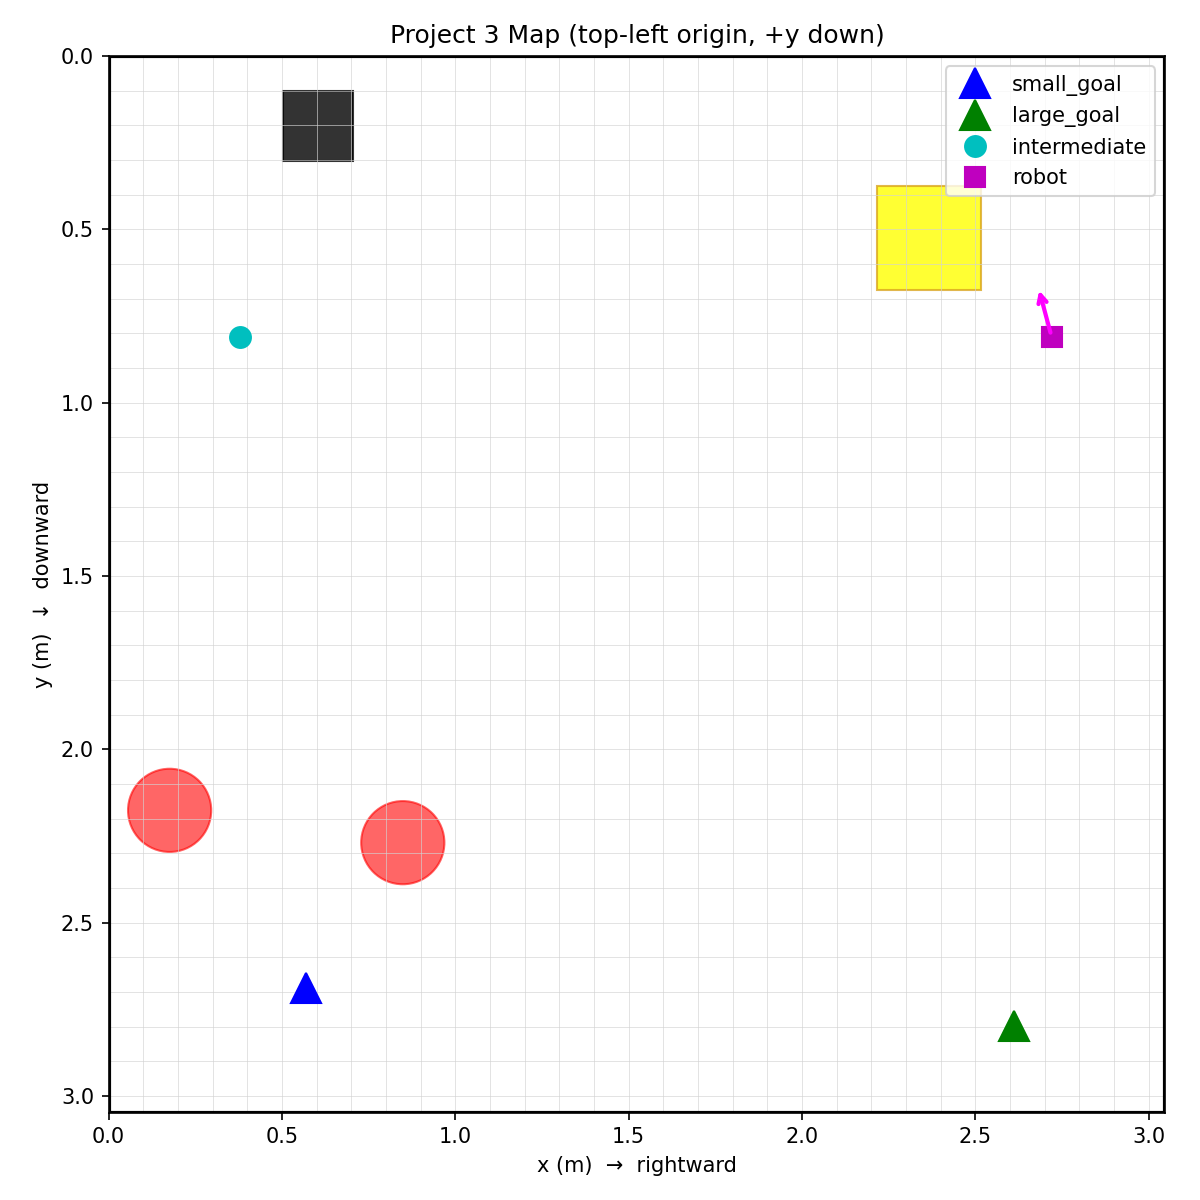
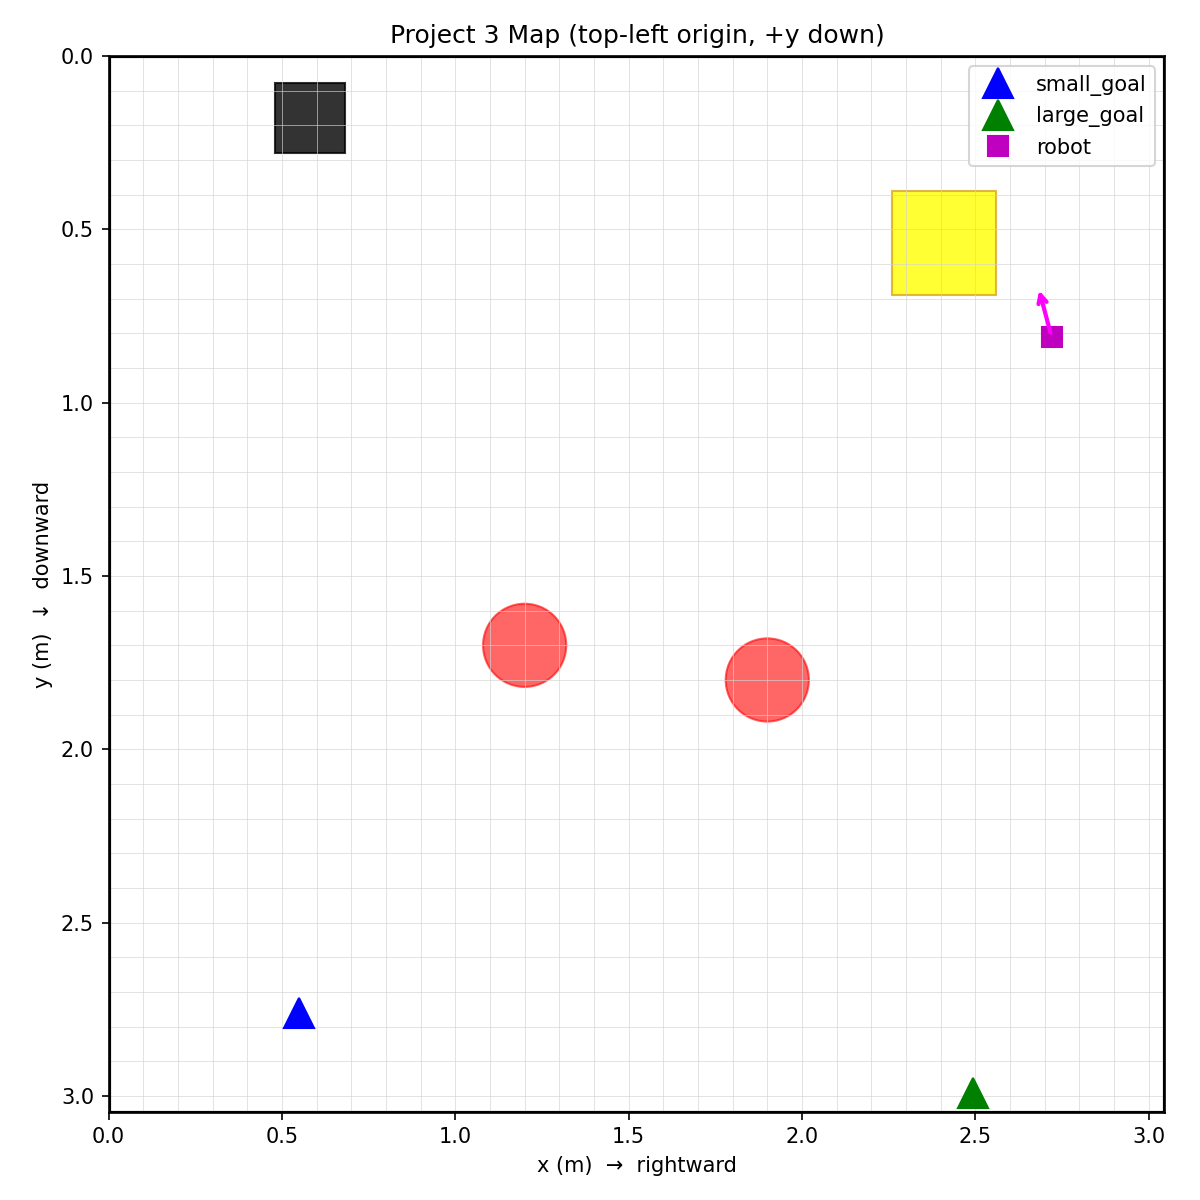
mostly working map

diff --git a/Project 3/project_3_updated.py b/Project 3/project_3_updated.py
@@ -109,6 +109,13 @@ LEFT_SCAN_STEP_M = 0.18
 OBSTACLE_MERGE_RADIUS_M = 0.30
 OBSTACLE_PATH_CLEARANCE_M = 0.38
 OBSTACLE_DETOUR_MARGIN_M = 0.28
+OBSTACLE_FALLBACK_RADIUS_M = 0.70
+OBSTACLE_FALLBACK_POSITIONS: Tuple[Tuple[float, float], ...] = (
+    (1.2, 1.7),
+    (1.9, 1.8),
+)
+DOCK_FALLBACK_RADIUS_M = 0.70
+DOCK_FALLBACK_POSITION: Tuple[float, float] = (2.46, 0.48)
 
 # Navigation stop distances.
 LANDMARK_STOP_DIST_M = 0.55
@@ -156,6 +163,9 @@ OBJECT_HEIGHTS_M = {
     CLASS_SMALL_BRICK: 0.10,
     CLASS_LARGE_BRICK: 0.19,
 }
+
+
+ACTIVE_WORLD_MAP: Optional["WorldMap"] = None
 
 
 # ---------------------------------------------------------------------------
@@ -206,6 +216,8 @@ class WorldMap:
     intermediate: Optional[Landmark] = None
     dropoff_tag_ref: Optional[TagReference] = None
     obstacles: List[Landmark] = field(default_factory=list)
+    fallback_notes: List[str] = field(default_factory=list)
+    path_points: List[Tuple[float, float]] = field(default_factory=list)
 
     def goal_for_kind(self, kind: str) -> Optional[Landmark]:
         if kind == "small_goal":
@@ -253,6 +265,30 @@ class WorldMap:
         count += 1 if self.large_goal is not None else 0
         return count
 
+    def record_fallback(
+        self,
+        label: str,
+        detected_x: Optional[float],
+        detected_y: Optional[float],
+        final_x: float,
+        final_y: float,
+        reason: str,
+    ) -> None:
+        if detected_x is None or detected_y is None:
+            detected = "not detected"
+        else:
+            detected = f"detected=({detected_x:.2f}, {detected_y:.2f})"
+        final = f"used=({final_x:.2f}, {final_y:.2f})"
+        self.fallback_notes.append(f"{label}: {detected} -> {final} because {reason}")
+
+    def record_path_point(self, x: float, y: float) -> None:
+        point = (float(x), float(y))
+        if self.path_points:
+            last_x, last_y = self.path_points[-1]
+            if math.hypot(point[0] - last_x, point[1] - last_y) < 1e-6:
+                return
+        self.path_points.append(point)
+
     def summary(self) -> str:
         def fmt(lm: Optional[Landmark]) -> str:
             return "NOT FOUND" if lm is None else f"({lm.x:.2f}, {lm.y:.2f})"
@@ -267,6 +303,9 @@ class WorldMap:
         ]
         for idx, obstacle in enumerate(self.obstacles, start=1):
             lines.append(f"    obstacle_{idx}: ({obstacle.x:.2f}, {obstacle.y:.2f})")
+        if self.fallback_notes:
+            lines.append("  fallback notes:")
+            lines.extend([f"    {note}" for note in self.fallback_notes])
         return "\n".join(lines)
 
 
@@ -417,6 +456,41 @@ def clamp_to_workspace(x: float, y: float) -> Tuple[float, float]:
         min(max(0.0, x), WORKSPACE_W_M),
         min(max(0.0, y), WORKSPACE_H_M),
     )
+
+
+def record_active_path_point(pose: Pose2D) -> None:
+    if ACTIVE_WORLD_MAP is not None:
+        ACTIVE_WORLD_MAP.record_path_point(pose.x, pose.y)
+
+
+def point_in_workspace(x: float, y: float) -> bool:
+    return 0.0 <= x <= WORKSPACE_W_M and 0.0 <= y <= WORKSPACE_H_M
+
+
+def obstacle_fallback_for_index(index: int) -> Tuple[float, float]:
+    if not OBSTACLE_FALLBACK_POSITIONS:
+        raise RuntimeError("No obstacle fallback positions configured.")
+    if index < len(OBSTACLE_FALLBACK_POSITIONS):
+        return OBSTACLE_FALLBACK_POSITIONS[index]
+    return OBSTACLE_FALLBACK_POSITIONS[-1]
+
+
+def validate_or_fallback_obstacle(x: float, y: float, index: int) -> Tuple[float, float, Optional[str]]:
+    fallback_x, fallback_y = obstacle_fallback_for_index(index)
+    if not point_in_workspace(x, y):
+        return fallback_x, fallback_y, "outside workspace"
+    if math.hypot(x - fallback_x, y - fallback_y) > OBSTACLE_FALLBACK_RADIUS_M:
+        return fallback_x, fallback_y, f"outside {OBSTACLE_FALLBACK_RADIUS_M:.2f} m fallback radius"
+    return x, y, None
+
+
+def validate_or_fallback_dock(x: float, y: float) -> Tuple[float, float, Optional[str]]:
+    fallback_x, fallback_y = DOCK_FALLBACK_POSITION
+    if not point_in_workspace(x, y):
+        return fallback_x, fallback_y, "outside workspace"
+    if math.hypot(x - fallback_x, y - fallback_y) > DOCK_FALLBACK_RADIUS_M:
+        return fallback_x, fallback_y, f"outside {DOCK_FALLBACK_RADIUS_M:.2f} m fallback radius"
+    return x, y, None
 
 
 # ---------------------------------------------------------------------------
@@ -704,6 +778,7 @@ def move_robot(
     pose.x += world_dx
     pose.y += world_dy
     pose.yaw = wrap_to_pi(pose.yaw - math.radians(z_deg))
+    record_active_path_point(pose)
     print(
         f"[Pose] x={pose.x:.3f} y={pose.y:.3f} "
         f"yaw={math.degrees(pose.yaw):.1f}° "
@@ -728,6 +803,7 @@ def integrate_drive_speed(
     pose.x += world_dx
     pose.y += world_dy
     pose.yaw = wrap_to_pi(pose.yaw - math.radians(wz_deg_s * dt_s))
+    record_active_path_point(pose)
 
 
 def turn_to_yaw(ep_chassis, pose: Pose2D, target_yaw_rad: float) -> None:
@@ -1183,8 +1259,6 @@ def try_refine_recharge_from_tag(
     world_map: WorldMap,
     timeout_s: float = 5.0,
 ) -> bool:
-    if world_map.recharge is not None and world_map.recharge.tag_id is not None:
-        return True
     deadline = time.time() + timeout_s
     while time.time() < deadline:
         frame = read_frame(ep_camera, timeout=0.5)
@@ -1198,12 +1272,14 @@ def try_refine_recharge_from_tag(
             continue
 
         debug_log_tag_mapping(tag, pose, "recharge-tag-refine")
-        landmark = landmark_from_tag_detection(tag, "recharge", pose)
-        world_map.recharge = landmark
-        print(f"[Recharge] refined → ({landmark.x:.3f},{landmark.y:.3f}) tag={landmark.tag_id}")
+        print(
+            f"[Recharge] recharge tag acquired for approach at "
+            f"({float(tag.center[0]):.1f}px, {float(tag.center[1]):.1f}px); "
+            "keeping the original mapped recharge position."
+        )
         return True
 
-    print("[Recharge] recharge tag not found; keeping coarse position.")
+    print("[Recharge] recharge tag not found; keeping original mapped recharge position.")
     return False
 
 
@@ -1229,6 +1305,16 @@ def wait_for_goal_tag(
 # ---------------------------------------------------------------------------
 # Mapping functions
 # ---------------------------------------------------------------------------
+
+def is_unmapped_sweep_tag(tag_id: int, world_map: WorldMap, required_obstacles: int) -> bool:
+    goal_kind = goal_kind_from_tag(tag_id)
+    if goal_kind is not None:
+        return world_map.goal_for_kind(goal_kind) is None
+    if not is_obstacle_tag(tag_id):
+        return False
+    if len(world_map.obstacles) >= required_obstacles:
+        return False
+    return all(obstacle.tag_id != tag_id for obstacle in world_map.obstacles if obstacle.tag_id is not None)
 
 def map_goal_from_view(
     ep_camera,
@@ -1307,6 +1393,13 @@ def scan_left_and_map_world(
         frame = read_frame(ep_camera, timeout=0.5)
         if frame is not None:
             tags, detections = detect_tags_and_objects(frame, yolo_model, tag_detector)
+            tags = sorted(
+                tags,
+                key=lambda tag: (
+                    0 if is_unmapped_sweep_tag(int(tag.tag_id), world_map, required_obstacles) else 1,
+                    -float(tag.center[0]),
+                ),
+            )
 
             for tag in tags:
                 tag_id = int(tag.tag_id)
@@ -1336,7 +1429,23 @@ def scan_left_and_map_world(
                     continue
                 debug_log_tag_mapping(tag, pose, "obstacle-tag")
                 lm = landmark_from_tag_detection(tag, "obstacle", pose)
-                obs = world_map.add_or_update_obstacle(lm.x, lm.y, tag_id=tag_id)
+                obstacle_index = len(world_map.obstacles)
+                obs_x, obs_y, fallback_reason = validate_or_fallback_obstacle(lm.x, lm.y, obstacle_index)
+                obs = world_map.add_or_update_obstacle(obs_x, obs_y, tag_id=tag_id)
+                if fallback_reason is not None:
+                    world_map.record_fallback(
+                        f"obstacle_{obstacle_index + 1}",
+                        lm.x,
+                        lm.y,
+                        obs.x,
+                        obs.y,
+                        fallback_reason,
+                    )
+                    print(
+                        f"[Map] obstacle tag {tag_id} mapped to fallback "
+                        f"({obs.x:.3f},{obs.y:.3f}) because detection was {fallback_reason}"
+                    )
+                    continue
                 print(f"[Map] obstacle tag {tag_id} at ({obs.x:.3f},{obs.y:.3f})")
 
             if (
@@ -1352,6 +1461,27 @@ def scan_left_and_map_world(
         # direction when facing down (yaw=π/2).
         move_robot(ep_chassis, pose, y_m=-LEFT_SCAN_STEP_M)
         total_left_m += LEFT_SCAN_STEP_M
+
+    while len(world_map.obstacles) < required_obstacles:
+        obstacle_index = len(world_map.obstacles)
+        fallback_x, fallback_y = obstacle_fallback_for_index(obstacle_index)
+        obs = world_map.add_or_update_obstacle(fallback_x, fallback_y)
+        world_map.record_fallback(
+            f"obstacle_{obstacle_index + 1}",
+            None,
+            None,
+            obs.x,
+            obs.y,
+            "the obstacle was not found during the sweep",
+        )
+        print(
+            f"[Map] obstacle {obstacle_index + 1} missing after sweep; "
+            f"using fallback ({obs.x:.3f},{obs.y:.3f})"
+        )
+
+    if world_map.small_goal is not None and world_map.large_goal is not None:
+        print("[Map] left sweep complete: both goals and required obstacles mapped")
+        return
 
     raise RuntimeError("Could not map both goals and the required obstacles while translating left.")
 
@@ -1379,14 +1509,40 @@ def map_loading_dock(
                 if points:
                     dock_x = float(np.mean([p[0] for p in points]))
                     dock_y = float(np.mean([p[1] for p in points]))
-                    world_map.dock = Landmark(kind="dock", x=dock_x, y=dock_y)
-                    print(f"[Map] dock at ({dock_x:.3f},{dock_y:.3f}) from {len(points)} towers")
+                    final_x, final_y, fallback_reason = validate_or_fallback_dock(dock_x, dock_y)
+                    world_map.dock = Landmark(kind="dock", x=final_x, y=final_y)
+                    if fallback_reason is not None:
+                        world_map.record_fallback(
+                            "dock",
+                            dock_x,
+                            dock_y,
+                            final_x,
+                            final_y,
+                            fallback_reason,
+                        )
+                        print(
+                            f"[Map] dock detected at ({dock_x:.3f},{dock_y:.3f}) "
+                            f"but using fallback ({final_x:.3f},{final_y:.3f}) because detection was {fallback_reason}"
+                        )
+                    else:
+                        print(f"[Map] dock at ({dock_x:.3f},{dock_y:.3f}) from {len(points)} towers")
                     return world_map.dock
 
         # Rotate CCW (yaw decreases) to sweep: chassis z positive.
         move_robot(ep_chassis, pose, z_deg=DOCK_SEARCH_STEP_DEG)
 
-    raise RuntimeError("Could not locate the loading dock tower clump.")
+    fallback_x, fallback_y = DOCK_FALLBACK_POSITION
+    world_map.dock = Landmark(kind="dock", x=fallback_x, y=fallback_y)
+    world_map.record_fallback(
+        "dock",
+        None,
+        None,
+        fallback_x,
+        fallback_y,
+        "the loading dock was not found during the dock scan",
+    )
+    print(f"[Map] dock missing after scan; using fallback ({fallback_x:.3f},{fallback_y:.3f})")
+    return world_map.dock
 
 
 # ---------------------------------------------------------------------------
@@ -1537,6 +1693,7 @@ def recharge_robot(
     pose: Pose2D,
     world_map: WorldMap,
     battery: BatteryManager,
+    leave_after_recharge: bool = True,
 ) -> None:
     if world_map.recharge is None:
         raise RuntimeError("Recharge requested before recharge was mapped.")
@@ -1562,7 +1719,8 @@ def recharge_robot(
     time.sleep(5.0)
     battery.recharge()
     print(f"[Recharge] Battery now {battery.level:.0f}%")
-    go_to_intermediate_waypoint(ep_camera, ep_chassis, yolo_model, tag_detector, pose, world_map)
+    if leave_after_recharge:
+        go_to_intermediate_waypoint(ep_camera, ep_chassis, yolo_model, tag_detector, pose, world_map)
 
 
 # ---------------------------------------------------------------------------
@@ -1693,6 +1851,12 @@ def visualize_map(world_map: WorldMap, robot_pose: Optional[Pose2D] = None) -> N
     for obs in world_map.obstacles:
         ax.add_patch(plt.Circle((obs.x, obs.y), 0.12, color="red", alpha=0.6))
 
+    if len(world_map.path_points) >= 2:
+        xs = [point[0] for point in world_map.path_points]
+        ys = [point[1] for point in world_map.path_points]
+        ax.plot(xs, ys, color="magenta", linewidth=1.6, alpha=0.85, label="robot path")
+        ax.scatter(xs, ys, color="magenta", s=10, alpha=0.75)
+
     if world_map.recharge:
         ax.add_patch(patches.Rectangle(
             (world_map.recharge.x - 0.10, world_map.recharge.y - 0.10),
@@ -1708,8 +1872,6 @@ def visualize_map(world_map: WorldMap, robot_pose: Optional[Pose2D] = None) -> N
             (world_map.dock.x - 0.15, world_map.dock.y - 0.15),
             0.30, 0.30, facecolor="yellow", edgecolor="goldenrod", alpha=0.8,
         ))
-    if world_map.intermediate:
-        ax.plot(world_map.intermediate.x, world_map.intermediate.y, "co", markersize=10, label="intermediate")
 
     if robot_pose is not None:
         ax.plot(robot_pose.x, robot_pose.y, "ms", markersize=10, label="robot")
@@ -1753,6 +1915,7 @@ def parse_args() -> argparse.Namespace:
 
 def main() -> None:
     args = parse_args()
+    global ACTIVE_WORLD_MAP
 
     print("=== Project 3 Updated Workflow ===")
     print(f"[Setup] workspace = {WORKSPACE_W_M:.3f} m × {WORKSPACE_H_M:.3f} m")
@@ -1763,6 +1926,8 @@ def main() -> None:
     tag_detector = AprilTagDetector()
     pose = Pose2D(x=START_X_M, y=START_Y_M, yaw=START_YAW_RAD)
     world_map = WorldMap()
+    ACTIVE_WORLD_MAP = world_map
+    world_map.record_path_point(pose.x, pose.y)
     battery = BatteryManager()
 
     if args.conn_type == "sta":
@@ -1781,29 +1946,26 @@ def main() -> None:
         time.sleep(1.0)
         ep_robot.gripper.pause()
 
-        target_goal = execute_mapping_sequence(
+        execute_mapping_sequence(
             ep_camera, ep_chassis, yolo_model, tag_detector, pose, world_map,
+        )
+        print("[Mission] Mapping complete. Navigating to recharge station and ending there.")
+        recharge_robot(
+            ep_camera, ep_chassis, yolo_model, tag_detector,
+            pose, world_map, battery,
+            leave_after_recharge=False,
         )
         print(world_map.summary())
 
-        # Generate and save the map immediately after the mapping sequence
-        # completes so the saved PNG reflects the mapped obstacles/loading dock.
         if args.show_map or args.map_only:
             visualize_map(world_map, pose)
-
-        if not args.map_only:
-            run_delivery_loop(
-                ep_robot, ep_camera, ep_chassis,
-                yolo_model, tag_detector,
-                pose, world_map, battery,
-                target_goal, args.max_deliveries,
-            )
 
     finally:
         try:
             ep_chassis.drive_speed(x=0.0, y=0.0, z=0.0, timeout=0.1)
         except Exception:
             pass
+        ACTIVE_WORLD_MAP = None
         try:
             ep_camera.stop_video_stream()
         except Exception:

diff --git a/Project 3/config.py b/Project 3/config.py
@@ -193,7 +193,7 @@ DEFAULT_SERVO_STEP_S = 0.12
 
 
 # Navigation and sweep behavior
-MOVE_SPEED_MPS = 0.50
+MOVE_SPEED_MPS = 1.0
 TURN_SPEED_DPS = 35.0
 SWEEP_STEP_DEG = 15.0
 SWEEP_SETTLE_S = 0.6
